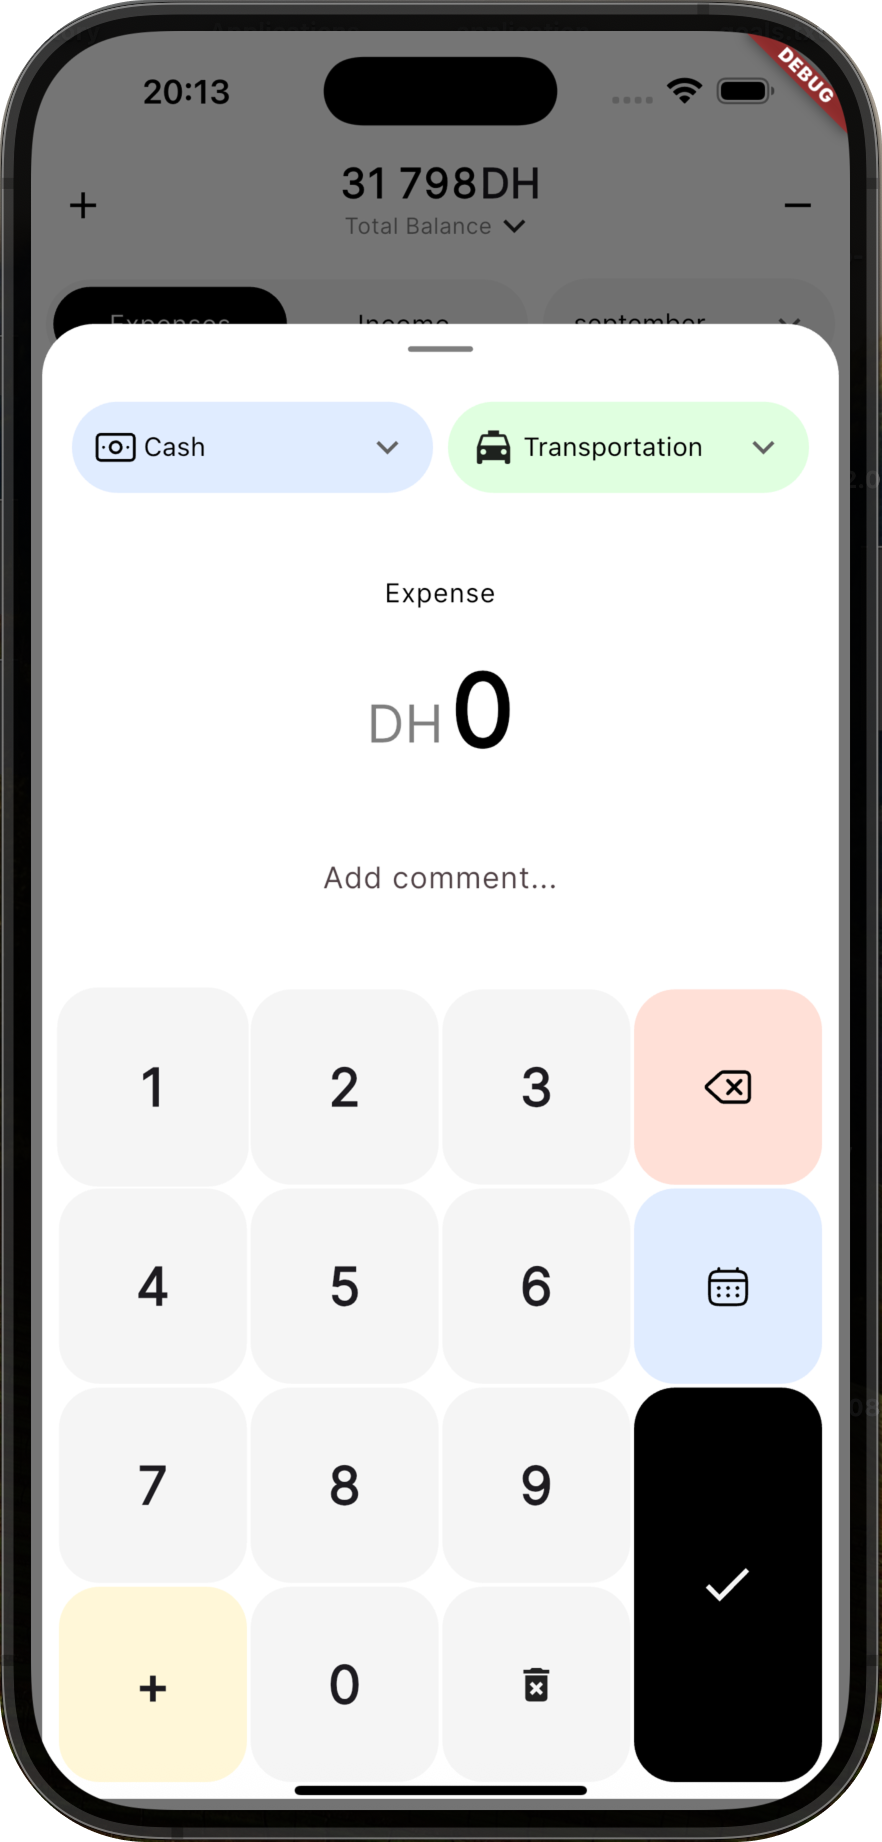
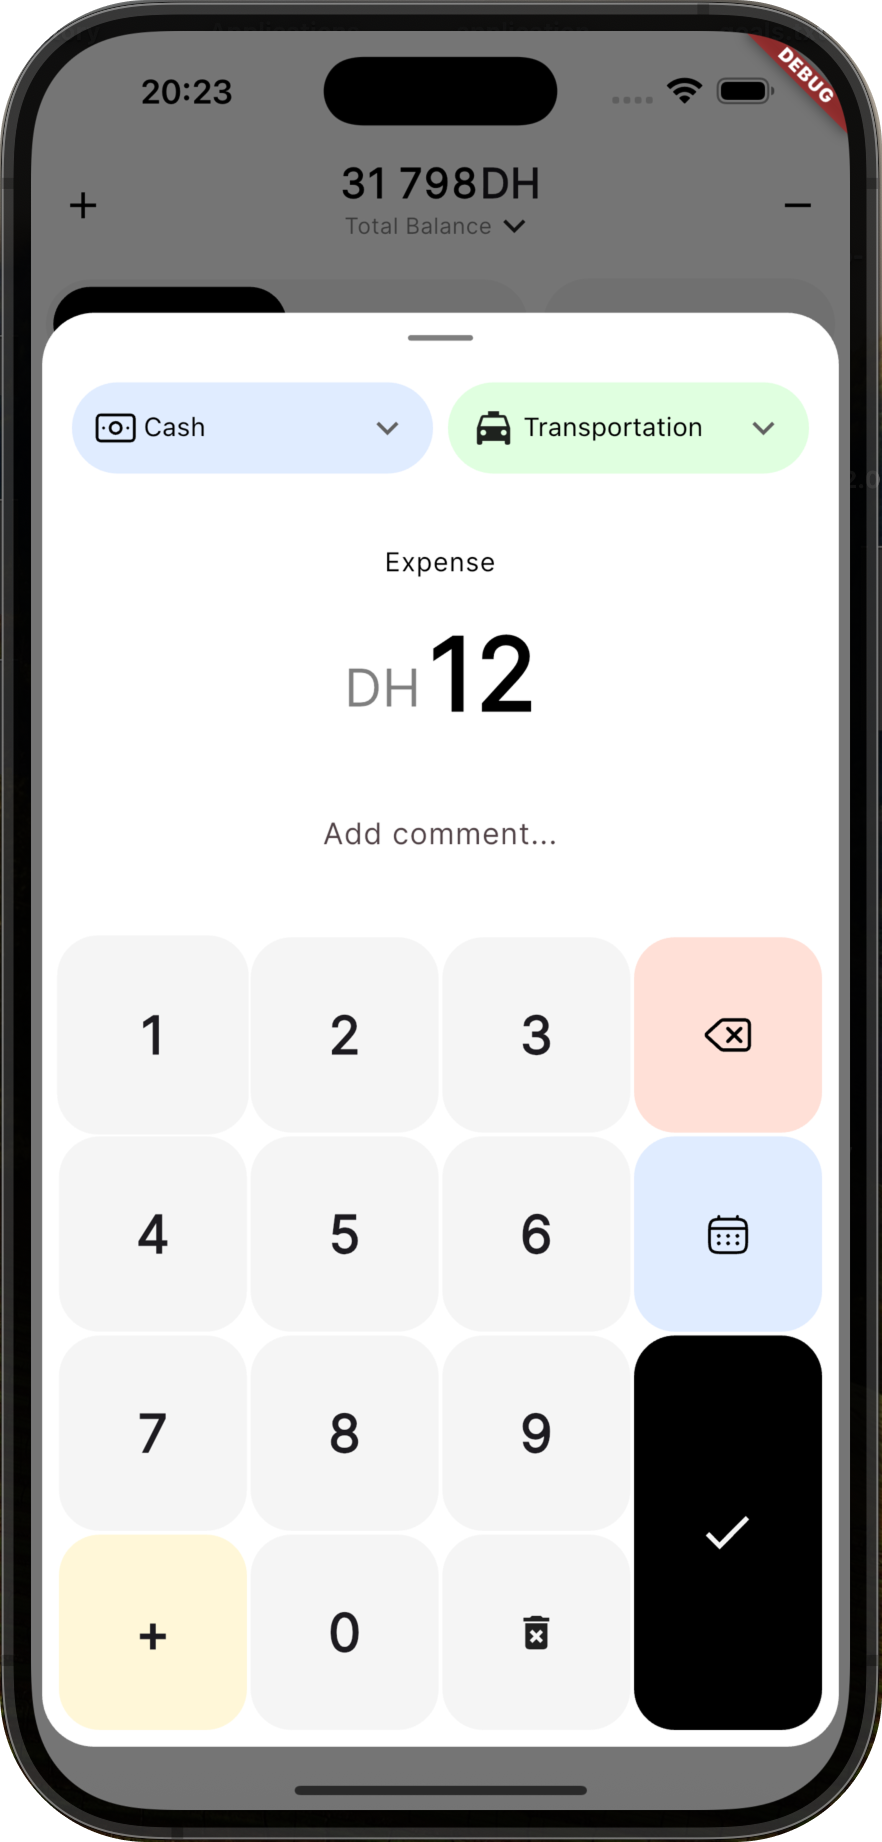
Refactor code formatting in transaction_bottomSheet and update screenshot

diff --git a/lib/shared/bottomSheets/transaction_bottomSheet/index.dart b/lib/shared/bottomSheets/transaction_bottomSheet/index.dart
@@ -75,7 +75,8 @@ class TransactioneBottomSheetState extends State<TransactionBottomSheet> {
     super.initState();
     // define vriables based on transaction type
     if (widget.type == TransactionType.expense) {
-      final applicationState = Provider.of<ApplicationState>(context, listen: false);
+      final applicationState =
+          Provider.of<ApplicationState>(context, listen: false);
       categories = applicationState.userSelectedCategories
           .map(
             (el) => DropDownItem(
@@ -235,13 +236,16 @@ class TransactioneBottomSheetState extends State<TransactionBottomSheet> {
     });
     try {
       // Get the ApplicationState instance
-      final applicationState = Provider.of<ApplicationState>(context, listen: false);
+      final applicationState =
+          Provider.of<ApplicationState>(context, listen: false);
 
       final newTransaction = Transaction(
         id: widget.transaction?.id,
         paymentMethod: paymentMethod,
         category: category,
-        title: title != "" ? title : (widget.type == TransactionType.expense ? "Expense" : "Income"),
+        title: title != ""
+            ? title
+            : (widget.type == TransactionType.expense ? "Expense" : "Income"),
         price: int.parse(price),
         comment: comment,
         timestamp: date,
@@ -264,7 +268,9 @@ class TransactioneBottomSheetState extends State<TransactionBottomSheet> {
         ScaffoldMessenger.of(context).clearSnackBars();
         ScaffoldMessenger.of(context).showSnackBar(
           SnackBar(
-            content: widget.transaction != null ? const Text('Expense updated successfully') : const Text('Expense added successfully'),
+            content: widget.transaction != null
+                ? const Text('Expense updated successfully')
+                : const Text('Expense added successfully'),
           ),
         );
       }
@@ -273,7 +279,10 @@ class TransactioneBottomSheetState extends State<TransactionBottomSheet> {
       if (mounted) {
         ScaffoldMessenger.of(context).clearSnackBars();
         ScaffoldMessenger.of(context).showSnackBar(
-          SnackBar(content: widget.transaction != null ? Text('Error updating expense $e') : Text('Expense adding expense $e')),
+          SnackBar(
+              content: widget.transaction != null
+                  ? Text('Error updating expense $e')
+                  : Text('Expense adding expense $e')),
         );
       }
     } finally {
@@ -304,7 +313,11 @@ class TransactioneBottomSheetState extends State<TransactionBottomSheet> {
           Radius.circular(28),
         ),
       ),
-      margin: const EdgeInsets.all(6.0),
+      margin: EdgeInsets.only(
+        left: 6.0,
+        right: 6.0,
+        bottom: MediaQuery.of(context).padding.bottom,
+      ),
       child: Column(
         children: [
           const SizedBox(height: 12),
